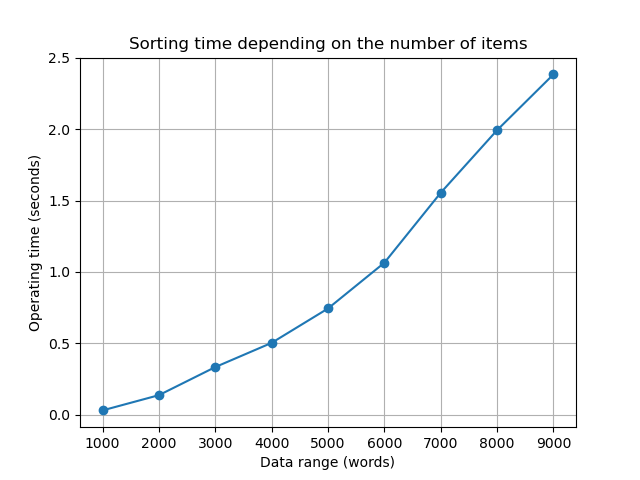
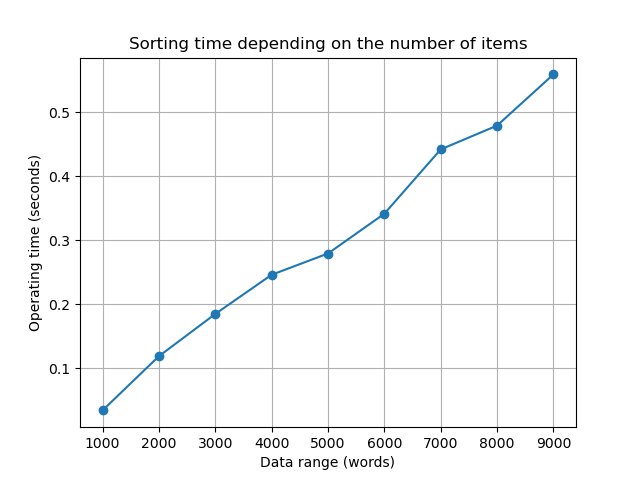
fixed insertionsort

diff --git a/sortowania/insertionsort.py b/sortowania/insertionsort.py
@@ -7,25 +7,24 @@ class Insertionsort:
     def __init__(self, data):
         self._data = data
 
-    def insertionsort(self, data):
-        for i in range(len(data)-1):
+    def insertionsort(self, mrange):
+        data = self._data
+        for i in range(1, mrange):
             j = i
-            while j > 0 and data[j-1] > data[j]:
+            while j > 0 and data[j - 1] > data[j]:
                 data[j], data[j-1] = data[j-1], data[j]
                 j -= 1
-        return data
 
-    def insertionsort_runtime(self, data: list):
+    def insertionsort_runtime(self, range):
         start_time = time()
-        self.insertionsort(data)
+        self.insertionsort(range)
         endtime = time()
         return endtime - start_time
 
     def insertionsort_test(self):
         runtimes = {}
         for i in range(1000, 10000, 1000):
-            o_data = self._data[:i]
-            runtimes[i] = self.insertionsort_runtime(o_data)
+            runtimes[i] = self.insertionsort_runtime(i)
         graph_creating(runtimes, 'insertionsort_runtimes')
 
 
